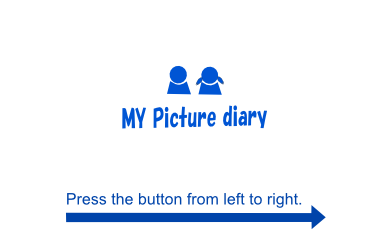
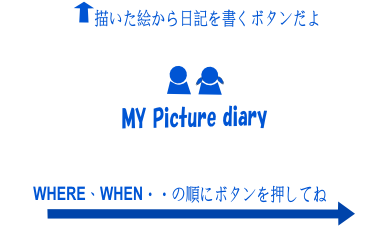
up

Changed region(s): [[0.088, 0.7913, 0.968, 1.0], [0.2053, 0.0, 0.8507, 0.1217]]

diff --git a/test4 - コピー (17).html b/test4 - コピー (17).html
@@ -2,7 +2,7 @@
 <html>
 <head>
 	<meta charset="utf-8" />
-	<title>Touch Enikki Ver.0153</title>
+	<title>Touch Enikki Ver.0152</title>
 	<meta name="apple-mobile-web-app-capable" content="yes">
 	<meta name="apple-mobile-web-app-status-bar-style" content="black-translucent">
 	<meta name="viewport" content="width=device-width, user-scalable=no">
@@ -80,10 +80,6 @@
 		stage.addChildAt(DyBackGround[0],0);
 		DyBackGround[0].x = 0;
 		DyBackGround[0].y = 40;
-
-		stage.addChildAt(DyBackGround[1],0);
-		DyBackGround[1].x = 0;
-		DyBackGround[1].y = 312;
 
 	}
 
@@ -199,7 +195,6 @@
 	function DyShapeDef() {
 		// オブジェクト(WHEN)の作成
 		DyBackGround.push(new createjs.Bitmap("boot1.png"));
-		DyBackGround.push(new createjs.Bitmap("boot2.png"));
 		DyBackGround.push(new createjs.Bitmap("sea1.png"));
 		DyBackGround.push(new createjs.Bitmap("park1.png"));
 
@@ -210,8 +205,8 @@
 		DyBmpAdd("TYPE_WHERE", "where2.png", "TYPE_WHERE,in the park,2");
 
 		DyBmpAdd("TYPE_WHO", "who0.png", "TYPE_WHO,,0");
-		DyBmpAdd("TYPE_WHO", "who1.png", "TYPE_WHO,with my friend,2");
-		DyBmpAdd("TYPE_WHO", "who2.png", "TYPE_WHO,with my friend,3");
+		DyBmpAdd("TYPE_WHO", "who1.png", "TYPE_WHO,with my friend,1");
+		DyBmpAdd("TYPE_WHO", "who2.png", "TYPE_WHO,with my friend,2");
 
 		DyBmpAdd("TYPE_WHAT", "what1.png", "TYPE_WHAT,enjoyed the beach ball");
 		DyBmpAdd("TYPE_WHAT", "what2.png", "TYPE_WHAT,enjoyed the swing");
